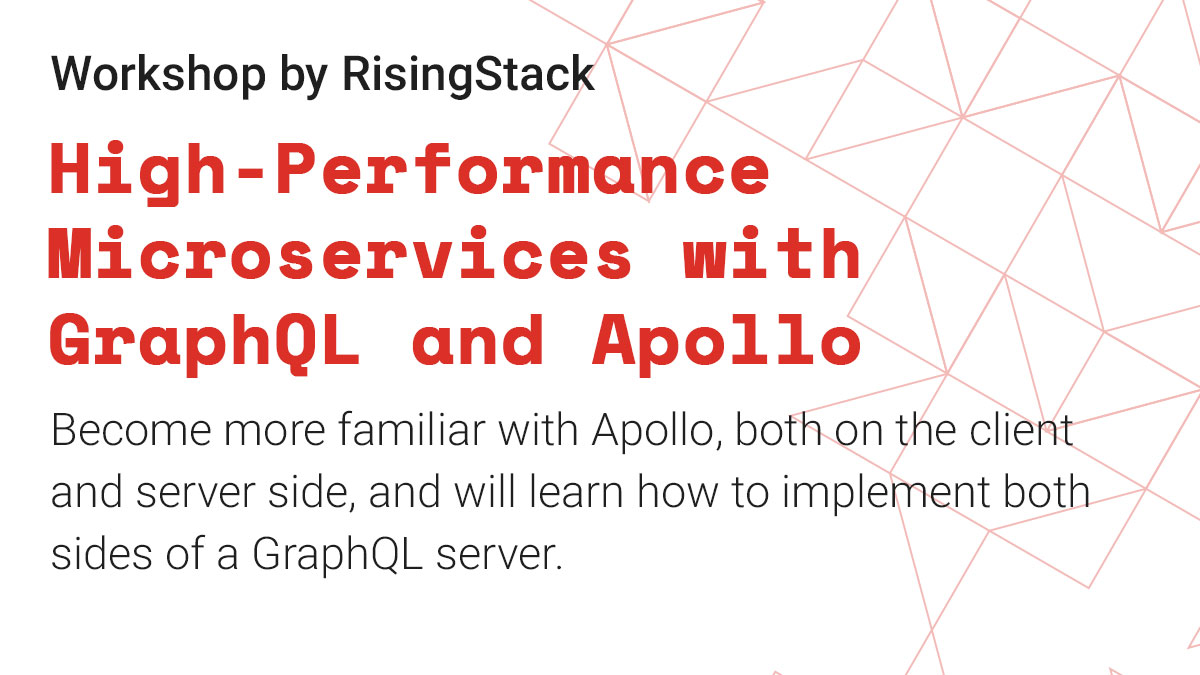
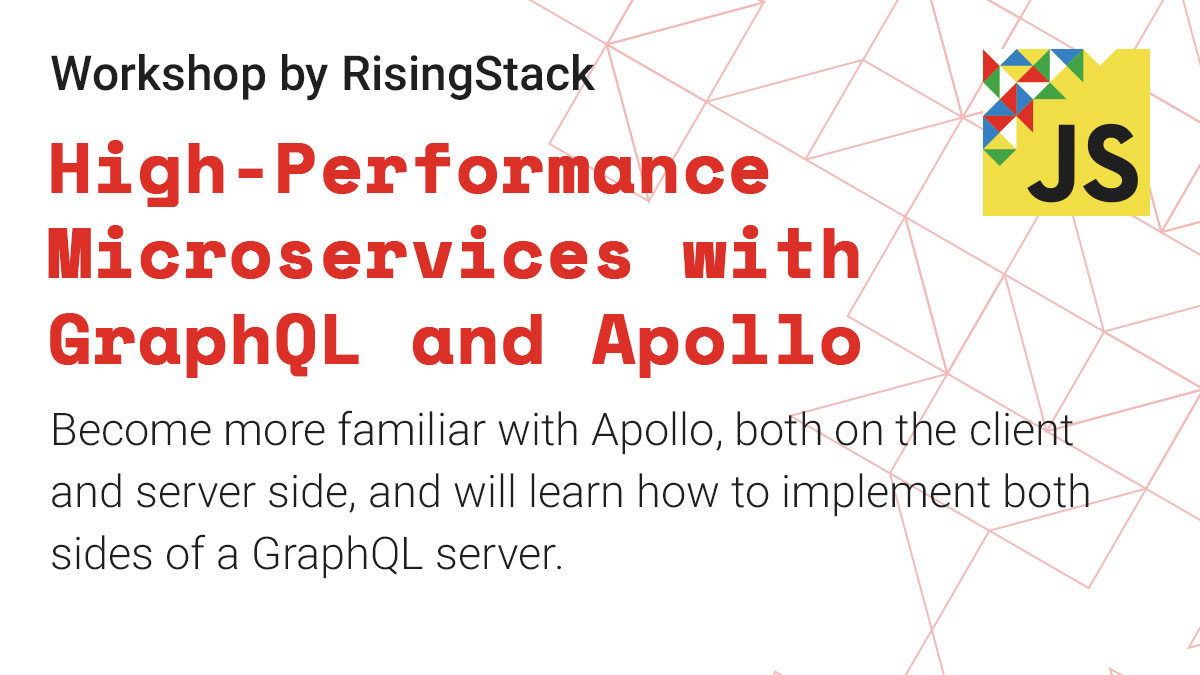
lint & update social cards

Changed region(s): [[0.8017, 0.0622, 0.9558, 0.3422]]

diff --git a/src/templates/workshops-content.js b/src/templates/workshops-content.js
@@ -11,7 +11,6 @@ import styles from '../pages/simpletext.module.scss'
 import workshopStyles from './workshop-styles.module.scss'
 import RegisterButton from '../components/RegisterButton'
 
-
 const Link = props => {
   const { url, text } = props
 
@@ -32,9 +31,7 @@ function SpeakersContentTemplate({ data: { mdx } }) {
       />
       <div className={classNames(styles.simpleText)}>
         <div className={workshopStyles.workshop_page}>
-          <h2 className={workshopStyles.workshop_title}>
-            {title}
-          </h2>
+          <h2 className={workshopStyles.workshop_title}>{title}</h2>
 
           <div className={workshopStyles.main_content}>
             <MDXRenderer>{mdx.code.body}</MDXRenderer>
@@ -49,12 +46,8 @@ function SpeakersContentTemplate({ data: { mdx } }) {
                   <Link url={company_url} text={company} />
                 </li>
               )}
-              <li>
-                September 24th, 2019
-              </li>
-              <li>
-                Location: TBA
-              </li>
+              <li>September 24th, 2019</li>
+              <li>Location: TBA</li>
             </ul>
 
             <RegisterButton
@@ -62,7 +55,6 @@ function SpeakersContentTemplate({ data: { mdx } }) {
               disabled={mdx.frontmatter.disabled}
             />
           </div>
-
         </div>
       </div>
     </Layout>

diff --git a/src/components/RegisterButton/index.js b/src/components/RegisterButton/index.js
@@ -3,14 +3,14 @@ import Button from '../Button'
 import styles from './registerbutton.module.scss'
 
 export default ({ id, disabled = false }) => (
-	<Button
-	  block={true}
-	  fill={true}
-	  color={'red'}
-	  disabled
-	  href={'https://ti.to/jsconf-bp/jsconf-budapest-2019'}
-	  className={styles.ticket_button}
-	>
-	  {disabled ? 'Open Soon' : 'Register Now'}
-	</Button>
-  )
+  <Button
+    block={true}
+    fill={true}
+    color={'red'}
+    disabled
+    href={'https://ti.to/jsconf-bp/jsconf-budapest-2019'}
+    className={styles.ticket_button}
+  >
+    {disabled ? 'Open Soon' : 'Register Now'}
+  </Button>
+)
